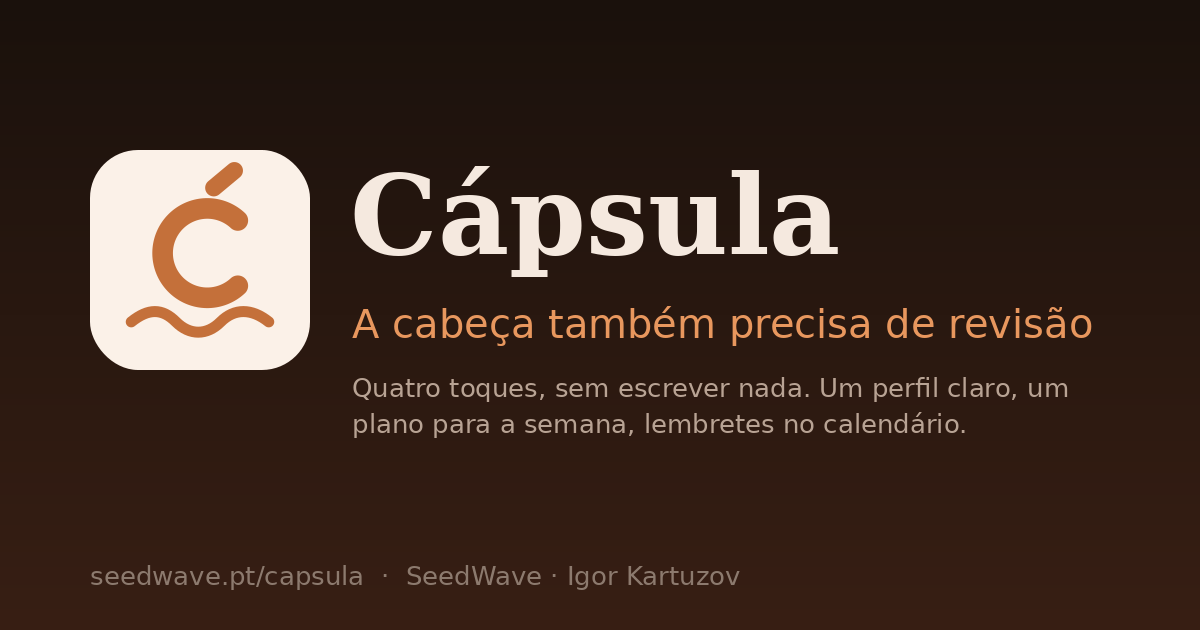
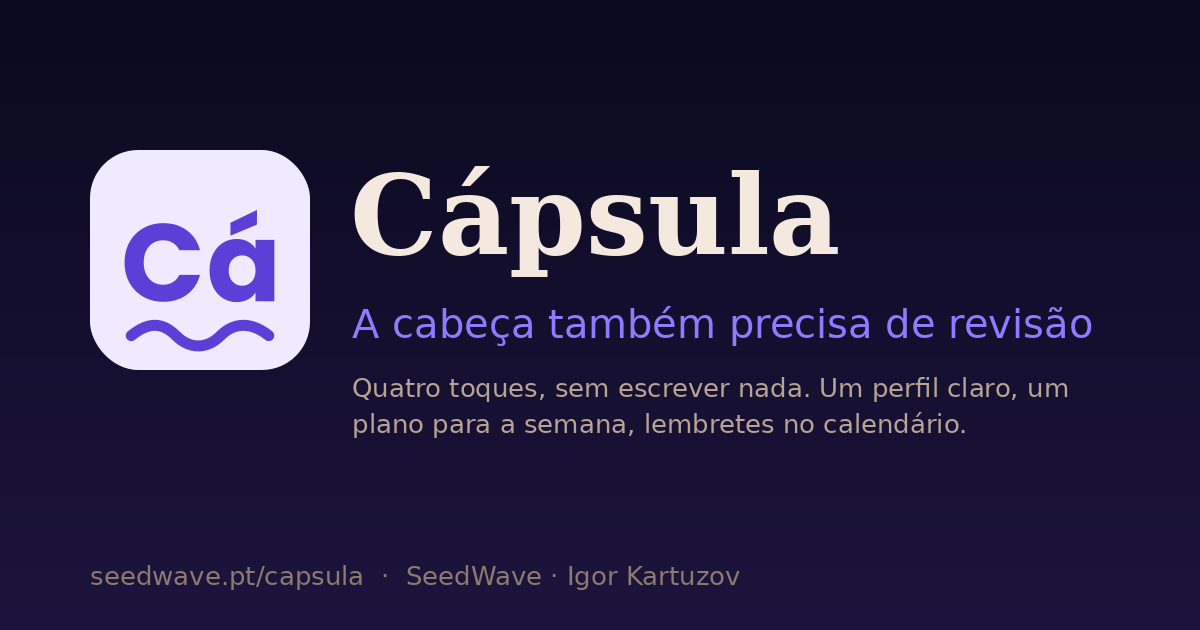
nCp Cápsula · значок «Cá» (две буквы, Poppins Bold → контуры) + волна снизу; палитра нейро-фиолет (A), варианты B циан / C бирюза в _src/mark.py
Claude-Session: https://claude.ai/code/session_01VKHYpgQA9JsA1U4Zcs64iT

diff --git a/capsula/ru/index.html b/capsula/ru/index.html
@@ -17,7 +17,7 @@
 <link rel="manifest" href="/capsula/m/capsula-ru.webmanifest">
 <meta name="apple-mobile-web-app-capable" content="yes">
 <meta name="apple-mobile-web-app-title" content="Cápsula">
-<meta name="theme-color" content="#120d0a">
+<meta name="theme-color" content="#0b0a1f">
 <meta property="og:title" content="Cápsula — Голове тоже нужен ТО">
 <meta property="og:description" content="Память, концентрация, сон, страх инсульта. Четыре нажатия, ничего не печатать — и у тебя понятный профиль и план на неделю. Бесплатно, без регистрации, ничего не хранится.">
 <meta property="og:image" content="https://seedwave.pt/capsula/og-image.png">
@@ -30,7 +30,7 @@
 <link rel="preconnect" href="https://fonts.googleapis.com">
 <link rel="preconnect" href="https://fonts.gstatic.com" crossorigin>
 <link href="https://fonts.googleapis.com/css2?family=Manrope:wght@400;600;700;800&family=Spectral:wght@600&display=swap" rel="stylesheet">
-<link rel="stylesheet" href="/capsula/engine.css?v=202610281153">
+<link rel="stylesheet" href="/capsula/engine.css?v=202610281157">
 <script>try{var t=new URLSearchParams(location.search).get('theme')||localStorage.getItem('capsula.theme')||(matchMedia('(prefers-color-scheme: light)').matches?'light':'dark');document.documentElement.dataset.theme=t}catch(e){}</script>
 <script type="application/ld+json">{"@context": "https://schema.org", "@type": "WebApplication", "name": "Cápsula", "url": "https://seedwave.pt/capsula/ru/", "inLanguage": "ru", "applicationCategory": "HealthApplication", "operatingSystem": "Any", "description": "Память, концентрация, сон, страх инсульта. Четыре нажатия, ничего не печатать — и у тебя понятный профиль и план на неделю. Бесплатно, без регистрации, ничего не хранится.", "offers": {"@type": "Offer", "price": "0", "priceCurrency": "EUR"}, "author": {"@type": "Person", "name": "Igor Kartuzov", "url": "https://www.linkedin.com/in/igor-kartuzov/"}, "publisher": {"@type": "Organization", "name": "SeedWave", "url": "https://seedwave.pt/"}}</script>
 </head>
@@ -69,7 +69,7 @@
   <footer class="sw">© <span id="year">2026</span> <a id="hubLink" href="https://seedwave.pt/hub/?lang=ru">SeedWave</a> · <a href="https://www.linkedin.com/in/igor-kartuzov/" target="_blank" rel="noopener">Igor Kartuzov</a></footer>
 </div>
 <div class="toast" id="toast" role="status" aria-live="polite"></div>
-<script defer src="/capsula/engine.js?v=202610281153"></script>
+<script defer src="/capsula/engine.js?v=202610281157"></script>
 <script defer src="https://seedwave.pt/nav/sw.js"></script>
 <!-- Cloudflare Web Analytics --><script defer src='https://static.cloudflareinsights.com/beacon.min.js' data-cf-beacon='{"token": "8a509477310442638b80e4b22319b89b"}'></script><!-- End Cloudflare Web Analytics -->
 </body>

diff --git a/capsula/de/index.html b/capsula/de/index.html
@@ -17,7 +17,7 @@
 <link rel="manifest" href="/capsula/m/capsula-de.webmanifest">
 <meta name="apple-mobile-web-app-capable" content="yes">
 <meta name="apple-mobile-web-app-title" content="Cápsula">
-<meta name="theme-color" content="#120d0a">
+<meta name="theme-color" content="#0b0a1f">
 <meta property="og:title" content="Cápsula — Auch der Kopf braucht eine Inspektion">
 <meta property="og:description" content="Gedächtnis, Konzentration, Schlaf, Angst vor Schlaganfall. Vier Tipps, nichts tippen — und du bekommst ein klares Profil und einen Plan für die Woche. Kostenlos, ohne Anmeldung, nichts wird gespeichert.">
 <meta property="og:image" content="https://seedwave.pt/capsula/og-image.png">
@@ -30,7 +30,7 @@
 <link rel="preconnect" href="https://fonts.googleapis.com">
 <link rel="preconnect" href="https://fonts.gstatic.com" crossorigin>
 <link href="https://fonts.googleapis.com/css2?family=Manrope:wght@400;600;700;800&family=Spectral:wght@600&display=swap" rel="stylesheet">
-<link rel="stylesheet" href="/capsula/engine.css?v=202610281153">
+<link rel="stylesheet" href="/capsula/engine.css?v=202610281157">
 <script>try{var t=new URLSearchParams(location.search).get('theme')||localStorage.getItem('capsula.theme')||(matchMedia('(prefers-color-scheme: light)').matches?'light':'dark');document.documentElement.dataset.theme=t}catch(e){}</script>
 <script type="application/ld+json">{"@context": "https://schema.org", "@type": "WebApplication", "name": "Cápsula", "url": "https://seedwave.pt/capsula/de/", "inLanguage": "de", "applicationCategory": "HealthApplication", "operatingSystem": "Any", "description": "Gedächtnis, Konzentration, Schlaf, Angst vor Schlaganfall. Vier Tipps, nichts tippen — und du bekommst ein klares Profil und einen Plan für die Woche. Kostenlos, ohne Anmeldung, nichts wird gespeichert.", "offers": {"@type": "Offer", "price": "0", "priceCurrency": "EUR"}, "author": {"@type": "Person", "name": "Igor Kartuzov", "url": "https://www.linkedin.com/in/igor-kartuzov/"}, "publisher": {"@type": "Organization", "name": "SeedWave", "url": "https://seedwave.pt/"}}</script>
 </head>
@@ -69,7 +69,7 @@
   <footer class="sw">© <span id="year">2026</span> <a id="hubLink" href="https://seedwave.pt/hub/?lang=de">SeedWave</a> · <a href="https://www.linkedin.com/in/igor-kartuzov/" target="_blank" rel="noopener">Igor Kartuzov</a></footer>
 </div>
 <div class="toast" id="toast" role="status" aria-live="polite"></div>
-<script defer src="/capsula/engine.js?v=202610281153"></script>
+<script defer src="/capsula/engine.js?v=202610281157"></script>
 <script defer src="https://seedwave.pt/nav/sw.js"></script>
 <!-- Cloudflare Web Analytics --><script defer src='https://static.cloudflareinsights.com/beacon.min.js' data-cf-beacon='{"token": "8a509477310442638b80e4b22319b89b"}'></script><!-- End Cloudflare Web Analytics -->
 </body>

diff --git a/capsula/es/index.html b/capsula/es/index.html
@@ -17,7 +17,7 @@
 <link rel="manifest" href="/capsula/m/capsula-es.webmanifest">
 <meta name="apple-mobile-web-app-capable" content="yes">
 <meta name="apple-mobile-web-app-title" content="Cápsula">
-<meta name="theme-color" content="#120d0a">
+<meta name="theme-color" content="#0b0a1f">
 <meta property="og:title" content="Cápsula — La cabeza también necesita revisión">
 <meta property="og:description" content="Memoria, concentración, sueño, miedo al ictus. Cuatro toques, sin escribir nada — y recibes un perfil claro y un plan para la semana. Gratis, sin registro, no se guarda nada.">
 <meta property="og:image" content="https://seedwave.pt/capsula/og-image.png">
@@ -30,7 +30,7 @@
 <link rel="preconnect" href="https://fonts.googleapis.com">
 <link rel="preconnect" href="https://fonts.gstatic.com" crossorigin>
 <link href="https://fonts.googleapis.com/css2?family=Manrope:wght@400;600;700;800&family=Spectral:wght@600&display=swap" rel="stylesheet">
-<link rel="stylesheet" href="/capsula/engine.css?v=202610281153">
+<link rel="stylesheet" href="/capsula/engine.css?v=202610281157">
 <script>try{var t=new URLSearchParams(location.search).get('theme')||localStorage.getItem('capsula.theme')||(matchMedia('(prefers-color-scheme: light)').matches?'light':'dark');document.documentElement.dataset.theme=t}catch(e){}</script>
 <script type="application/ld+json">{"@context": "https://schema.org", "@type": "WebApplication", "name": "Cápsula", "url": "https://seedwave.pt/capsula/es/", "inLanguage": "es", "applicationCategory": "HealthApplication", "operatingSystem": "Any", "description": "Memoria, concentración, sueño, miedo al ictus. Cuatro toques, sin escribir nada — y recibes un perfil claro y un plan para la semana. Gratis, sin registro, no se guarda nada.", "offers": {"@type": "Offer", "price": "0", "priceCurrency": "EUR"}, "author": {"@type": "Person", "name": "Igor Kartuzov", "url": "https://www.linkedin.com/in/igor-kartuzov/"}, "publisher": {"@type": "Organization", "name": "SeedWave", "url": "https://seedwave.pt/"}}</script>
 </head>
@@ -69,7 +69,7 @@
   <footer class="sw">© <span id="year">2026</span> <a id="hubLink" href="https://seedwave.pt/hub/?lang=es">SeedWave</a> · <a href="https://www.linkedin.com/in/igor-kartuzov/" target="_blank" rel="noopener">Igor Kartuzov</a></footer>
 </div>
 <div class="toast" id="toast" role="status" aria-live="polite"></div>
-<script defer src="/capsula/engine.js?v=202610281153"></script>
+<script defer src="/capsula/engine.js?v=202610281157"></script>
 <script defer src="https://seedwave.pt/nav/sw.js"></script>
 <!-- Cloudflare Web Analytics --><script defer src='https://static.cloudflareinsights.com/beacon.min.js' data-cf-beacon='{"token": "8a509477310442638b80e4b22319b89b"}'></script><!-- End Cloudflare Web Analytics -->
 </body>

diff --git a/capsula/index.html b/capsula/index.html
@@ -17,7 +17,7 @@
 <link rel="manifest" href="/capsula/m/capsula-pt.webmanifest">
 <meta name="apple-mobile-web-app-capable" content="yes">
 <meta name="apple-mobile-web-app-title" content="Cápsula">
-<meta name="theme-color" content="#120d0a">
+<meta name="theme-color" content="#0b0a1f">
 <meta property="og:title" content="Cápsula — A cabeça também precisa de revisão">
 <meta property="og:description" content="Memória, concentração, sono, medo do AVC. Quatro toques, sem escrever nada — e recebes um perfil claro e um plano para a semana. Grátis, sem registo, nada é guardado.">
 <meta property="og:image" content="https://seedwave.pt/capsula/og-image.png">
@@ -30,7 +30,7 @@
 <link rel="preconnect" href="https://fonts.googleapis.com">
 <link rel="preconnect" href="https://fonts.gstatic.com" crossorigin>
 <link href="https://fonts.googleapis.com/css2?family=Manrope:wght@400;600;700;800&family=Spectral:wght@600&display=swap" rel="stylesheet">
-<link rel="stylesheet" href="/capsula/engine.css?v=202610281153">
+<link rel="stylesheet" href="/capsula/engine.css?v=202610281157">
 <script>try{var t=new URLSearchParams(location.search).get('theme')||localStorage.getItem('capsula.theme')||(matchMedia('(prefers-color-scheme: light)').matches?'light':'dark');document.documentElement.dataset.theme=t}catch(e){}</script>
 <script type="application/ld+json">{"@context": "https://schema.org", "@type": "WebApplication", "name": "Cápsula", "url": "https://seedwave.pt/capsula/", "inLanguage": "pt", "applicationCategory": "HealthApplication", "operatingSystem": "Any", "description": "Memória, concentração, sono, medo do AVC. Quatro toques, sem escrever nada — e recebes um perfil claro e um plano para a semana. Grátis, sem registo, nada é guardado.", "offers": {"@type": "Offer", "price": "0", "priceCurrency": "EUR"}, "author": {"@type": "Person", "name": "Igor Kartuzov", "url": "https://www.linkedin.com/in/igor-kartuzov/"}, "publisher": {"@type": "Organization", "name": "SeedWave", "url": "https://seedwave.pt/"}}</script>
 </head>
@@ -69,7 +69,7 @@
   <footer class="sw">© <span id="year">2026</span> <a id="hubLink" href="https://seedwave.pt/hub/?lang=pt">SeedWave</a> · <a href="https://www.linkedin.com/in/igor-kartuzov/" target="_blank" rel="noopener">Igor Kartuzov</a></footer>
 </div>
 <div class="toast" id="toast" role="status" aria-live="polite"></div>
-<script defer src="/capsula/engine.js?v=202610281153"></script>
+<script defer src="/capsula/engine.js?v=202610281157"></script>
 <script defer src="https://seedwave.pt/nav/sw.js"></script>
 <!-- Cloudflare Web Analytics --><script defer src='https://static.cloudflareinsights.com/beacon.min.js' data-cf-beacon='{"token": "8a509477310442638b80e4b22319b89b"}'></script><!-- End Cloudflare Web Analytics -->
 </body>

diff --git a/capsula/en/index.html b/capsula/en/index.html
@@ -17,7 +17,7 @@
 <link rel="manifest" href="/capsula/m/capsula-en.webmanifest">
 <meta name="apple-mobile-web-app-capable" content="yes">
 <meta name="apple-mobile-web-app-title" content="Cápsula">
-<meta name="theme-color" content="#120d0a">
+<meta name="theme-color" content="#0b0a1f">
 <meta property="og:title" content="Cápsula — Your head needs a service too">
 <meta property="og:description" content="Memory, focus, sleep, fear of stroke. Four taps, nothing to type — and you get a clear profile and a plan for the week. Free, no sign-up, nothing is stored.">
 <meta property="og:image" content="https://seedwave.pt/capsula/og-image.png">
@@ -30,7 +30,7 @@
 <link rel="preconnect" href="https://fonts.googleapis.com">
 <link rel="preconnect" href="https://fonts.gstatic.com" crossorigin>
 <link href="https://fonts.googleapis.com/css2?family=Manrope:wght@400;600;700;800&family=Spectral:wght@600&display=swap" rel="stylesheet">
-<link rel="stylesheet" href="/capsula/engine.css?v=202610281153">
+<link rel="stylesheet" href="/capsula/engine.css?v=202610281157">
 <script>try{var t=new URLSearchParams(location.search).get('theme')||localStorage.getItem('capsula.theme')||(matchMedia('(prefers-color-scheme: light)').matches?'light':'dark');document.documentElement.dataset.theme=t}catch(e){}</script>
 <script type="application/ld+json">{"@context": "https://schema.org", "@type": "WebApplication", "name": "Cápsula", "url": "https://seedwave.pt/capsula/en/", "inLanguage": "en", "applicationCategory": "HealthApplication", "operatingSystem": "Any", "description": "Memory, focus, sleep, fear of stroke. Four taps, nothing to type — and you get a clear profile and a plan for the week. Free, no sign-up, nothing is stored.", "offers": {"@type": "Offer", "price": "0", "priceCurrency": "EUR"}, "author": {"@type": "Person", "name": "Igor Kartuzov", "url": "https://www.linkedin.com/in/igor-kartuzov/"}, "publisher": {"@type": "Organization", "name": "SeedWave", "url": "https://seedwave.pt/"}}</script>
 </head>
@@ -69,7 +69,7 @@
   <footer class="sw">© <span id="year">2026</span> <a id="hubLink" href="https://seedwave.pt/hub/?lang=en">SeedWave</a> · <a href="https://www.linkedin.com/in/igor-kartuzov/" target="_blank" rel="noopener">Igor Kartuzov</a></footer>
 </div>
 <div class="toast" id="toast" role="status" aria-live="polite"></div>
-<script defer src="/capsula/engine.js?v=202610281153"></script>
+<script defer src="/capsula/engine.js?v=202610281157"></script>
 <script defer src="https://seedwave.pt/nav/sw.js"></script>
 <!-- Cloudflare Web Analytics --><script defer src='https://static.cloudflareinsights.com/beacon.min.js' data-cf-beacon='{"token": "8a509477310442638b80e4b22319b89b"}'></script><!-- End Cloudflare Web Analytics -->
 </body>

diff --git a/capsula/engine.css b/capsula/engine.css
@@ -1,17 +1,17 @@
-/* nCp · Cápsula — слой 1 (движок). Токены палитры SeedWave как в carro/; акцент продукта — вариант A «медь» (B гранат / C янтарь — в _src/variants). */
+/* nCp · Cápsula — слой 1 (движок). Токены палитры SeedWave как в carro/; акцент продукта — вариант A «нейро-фиолет» (B электрик-циан / C бирюза — в _src/mark.py). */
 :root{
-  --bg:#120d0a;--surface:#1f1612;--ink:#f5ebe2;--ink-soft:#bfa996;--line:rgba(232,151,94,.2);
-  --accent:#e8975e;--accent-ink:#1a0e06;--teal:#5fe0cf;--chip:rgba(255,255,255,.05);--chip-on:rgba(232,151,94,.16);
+  --bg:#0b0a1f;--surface:#16143a;--ink:#eeebff;--ink-soft:#a9a4cf;--line:rgba(143,123,255,.22);
+  --accent:#8f7bff;--accent-ink:#0b0a1f;--teal:#49d4ff;--chip:rgba(255,255,255,.05);--chip-on:rgba(143,123,255,.16);
   --ok:#7fd3a0;--warn:#f0c05a;--bad:#ef6b6b;
   --display:"Spectral",Georgia,serif;--body:"Manrope",system-ui,sans-serif;--r:18px;
 }
 :root[data-theme="light"]{
-  --bg:#f8f1ea;--surface:#ffffff;--ink:#2a1a10;--ink-soft:#6f5a4c;--line:rgba(120,70,30,.18);
-  --accent:#c4703a;--accent-ink:#ffffff;--teal:#0e8fa8;--chip:rgba(60,30,10,.045);--chip-on:rgba(196,112,58,.12);
+  --bg:#f3f1fb;--surface:#ffffff;--ink:#17143a;--ink-soft:#5e5a85;--line:rgba(91,63,214,.18);
+  --accent:#5b3fd6;--accent-ink:#ffffff;--teal:#1a7fd1;--chip:rgba(40,30,90,.045);--chip-on:rgba(91,63,214,.12);
   --ok:#2f8f5b;--warn:#b8860b;--bad:#c23b3b;
 }
 /* варианты акцента (выбирает Игорь, этап 0):
-   B «гранат»: ночь #e5758a / день #a63d4e · C «янтарь»: ночь #f0b545 / день #c48a1d */
+   B «электрик-циан»: ночь #49d4ff / день #1a7fd1 · C «бирюза»: ночь #2dd4bf / день #0f9f8c */
 *{box-sizing:border-box}
 html,body{margin:0}
 body{background:var(--bg);color:var(--ink);font:400 16px/1.5 var(--body);-webkit-font-smoothing:antialiased;min-height:100vh}

diff --git a/capsula/_src/page.html b/capsula/_src/page.html
@@ -12,7 +12,7 @@
 <link rel="manifest" href="/capsula/m/capsula-{{lang}}.webmanifest">
 <meta name="apple-mobile-web-app-capable" content="yes">
 <meta name="apple-mobile-web-app-title" content="{{brand}}">
-<meta name="theme-color" content="#120d0a">
+<meta name="theme-color" content="#0b0a1f">
 <meta property="og:title" content="{{brand}} — {{slogan}}">
 <meta property="og:description" content="{{metaDesc}}">
 <meta property="og:image" content="https://seedwave.pt/capsula/og-image.png">

diff --git a/capsula/engine.js b/capsula/engine.js
@@ -21,7 +21,7 @@
   const applyTheme = () => {
     document.documentElement.dataset.theme = theme;
     const m = $('meta[name="theme-color"]');
-    if (m) m.content = theme === 'light' ? '#f8f1ea' : '#120d0a';
+    if (m) m.content = theme === 'light' ? '#f3f1fb' : '#0b0a1f';
     const b = $('#themeBtn'); if (b) b.textContent = theme === 'light' ? '☾' : '☀';
   };
   applyTheme();

diff --git a/capsula/_src/mark.py b/capsula/_src/mark.py
@@ -1,0 +1,41 @@
+#!/usr/bin/env python3
+"""nCp · Cápsula — значок «Cá» (две буквы названия, Poppins Bold → контуры) + волна снизу.
+Генерирует capsula-icon.svg (вариант по умолчанию) и _src/variants/*.svg. Запуск из корня репо."""
+import pathlib
+from fontTools.ttLib import TTFont
+from fontTools.pens.svgPathPen import SVGPathPen
+from fontTools.pens.transformPen import TransformPen
+
+ROOT = pathlib.Path(__file__).resolve().parents[1]
+FONT = "/usr/share/fonts/truetype/google-fonts/Poppins-Bold.ttf"
+# палитры «нейро / мозг / будущее» (28.10.2026): акцент день / акцент ночь / фон тайла
+VARIANTS = {
+    "a": ("Violeta neural · нейро-фиолет", "#5b3fd6", "#8f7bff", "#efeaff"),
+    "b": ("Ciano elétrico · электрик-циан", "#1a7fd1", "#49d4ff", "#e6f4ff"),
+    "c": ("Teal · бирюза мозга", "#0f9f8c", "#2dd4bf", "#e3f7f3"),
+}
+DEFAULT = "a"
+
+f = TTFont(FONT); gs = f.getGlyphSet(); cmap = f.getBestCmap(); upm = f["head"].unitsPerEm
+def glyph(ch, x, scale):
+    pen = SVGPathPen(gs); g = gs[cmap[ord(ch)]]
+    g.draw(TransformPen(pen, (scale, 0, 0, -scale, x, 44)))   # базовая линия y=44
+    return pen.getCommands(), g.width * scale
+
+s = 32 / upm                           # высота заглавной ≈ 22px, ширина «Cá» ≈ 46px
+pC, wC = glyph("C", 9, s)
+pA, wA = glyph("á", 9 + wC + 0.5, s)
+WAVE = '<path d="M12 54c5-4 9-4 13 0s9 4 13 0 9-4 14 0" fill="none" stroke="{ink}" stroke-width="3.2" stroke-linecap="round"/>'
+MARK = f'<path d="{pC}" fill="{{ink}}"/>\n  <path d="{pA}" fill="{{ink}}"/>\n  ' + WAVE
+
+def svg(name, ink, bg, tile=True):
+    rect = f'<rect width="64" height="64" rx="14" fill="{bg}"/>' if tile else f'<rect width="64" height="64" fill="{bg}"/>'
+    return f'<svg xmlns="http://www.w3.org/2000/svg" viewBox="0 0 64 64">\n  <!-- nCp · Cápsula · значок: Cá (Poppins Bold) + волна снизу ({name}) -->\n  {rect}\n  {MARK.format(ink=ink)}\n</svg>\n'
+
+if __name__ == "__main__":
+    (ROOT / "_src" / "variants").mkdir(parents=True, exist_ok=True)
+    for k, (name, day, night, bg) in VARIANTS.items():
+        (ROOT / "_src" / "variants" / f"capsula-icon-{k}.svg").write_text(svg(name, day, bg), encoding="utf-8")
+    name, day, night, bg = VARIANTS[DEFAULT]
+    (ROOT / "capsula-icon.svg").write_text(svg(name + " — по умолчанию", day, bg), encoding="utf-8")
+    print("ok mark, default", DEFAULT, "C width", round(wC, 1), "á width", round(wA, 1))

diff --git a/capsula/_src/icons.py b/capsula/_src/icons.py
@@ -7,14 +7,11 @@ import cairosvg
 from PIL import Image, ImageDraw, ImageFont
 
 ROOT = pathlib.Path(__file__).resolve().parents[1]
-ACCENT, TILE, INK = "#c4703a", "#fbf1e8", "#2a1a10"   # вариант A «медь»
+import sys; sys.path.insert(0, str(ROOT / "_src")); import mark
+ACCENT = mark.VARIANTS[mark.DEFAULT][1]; NIGHT = mark.VARIANTS[mark.DEFAULT][2]
 
 # значок белым на фоне акцента — для «На экран Домой» (стандарт запуска §3)
-MARK = '''<svg xmlns="http://www.w3.org/2000/svg" viewBox="0 0 64 64">
-<rect width="64" height="64" fill="{bg}"/>
-<path d="M43 20.5a13 13 0 1 0 0 19" fill="none" stroke="{ink}" stroke-width="6" stroke-linecap="round"/>
-<path d="M36 11l6-5" fill="none" stroke="{ink}" stroke-width="5" stroke-linecap="round"/>
-<path d="M12 50c5-4 9-4 13 0s9 4 13 0 9-4 14 0" fill="none" stroke="{ink}" stroke-width="3.2" stroke-linecap="round"/></svg>'''
+MARK = None
 
 
 def png(svg, size):
@@ -22,17 +19,17 @@ def png(svg, size):
 
 
 for name, size in [("apple-touch-icon.png", 180), ("icon-192.png", 192), ("icon-512.png", 512)]:
-    png(MARK.format(bg=ACCENT, ink="#ffffff"), size).convert("RGB").save(ROOT / name, optimize=True)
+    png(mark.svg("home", "#ffffff", ACCENT, tile=False), size).convert("RGB").save(ROOT / name, optimize=True)
     print("ok", name)
 
 # OG 1200×630: тёплый тёмный фон, значок-тайл, словомарка, слоган (PT — канонический)
 import json
 T = json.loads((ROOT / "ui.pt.json").read_text(encoding="utf-8"))
-og = Image.new("RGB", (1200, 630), "#1a110c")
+og = Image.new("RGB", (1200, 630), "#0b0a1f")
 d = ImageDraw.Draw(og)
 for y in range(630):   # лёгкий тёплый градиент снизу
     k = y / 630
-    d.line([(0, y), (1200, y)], fill=(int(26 + 30 * k), int(17 + 14 * k), int(12 + 8 * k)))
+    d.line([(0, y), (1200, y)], fill=(int(11 + 18 * k), int(10 + 10 * k), int(31 + 30 * k)))
 tile = png((ROOT / "capsula-icon.svg").read_text(encoding="utf-8"), 220)
 og.paste(tile, (90, 150), tile)
 F = "/usr/share/fonts/truetype/dejavu/"
@@ -40,7 +37,7 @@ f1 = ImageFont.truetype(F + "DejaVuSerif-Bold.ttf", 110)
 f2 = ImageFont.truetype(F + "DejaVuSans.ttf", 40)
 f3 = ImageFont.truetype(F + "DejaVuSans.ttf", 26)
 d.text((350, 150), T["brand"], font=f1, fill="#f5e9df")
-d.text((352, 300), T["slogan"], font=f2, fill="#e8975e")
+d.text((352, 300), T["slogan"], font=f2, fill=NIGHT)
 import textwrap
 for i, line in enumerate(textwrap.wrap(T["heroSub"], 58)[:2]):
     d.text((352, 372 + i * 36), line, font=f3, fill="#b8a394")

diff --git a/capsula/_src/build.py b/capsula/_src/build.py
@@ -58,7 +58,7 @@ for lang in LANGS:
         "id": path(lang), "name": T["brand"], "short_name": T["brand"],
         "description": T["metaDesc"], "lang": lang,
         "start_url": path(lang), "scope": "/capsula/", "display": "standalone",
-        "background_color": "#120d0a", "theme_color": "#120d0a",
+        "background_color": "#0b0a1f", "theme_color": "#0b0a1f",
         "icons": [
             {"src": "/capsula/icon-192.png", "sizes": "192x192", "type": "image/png"},
             {"src": "/capsula/icon-512.png", "sizes": "512x512", "type": "image/png"},
